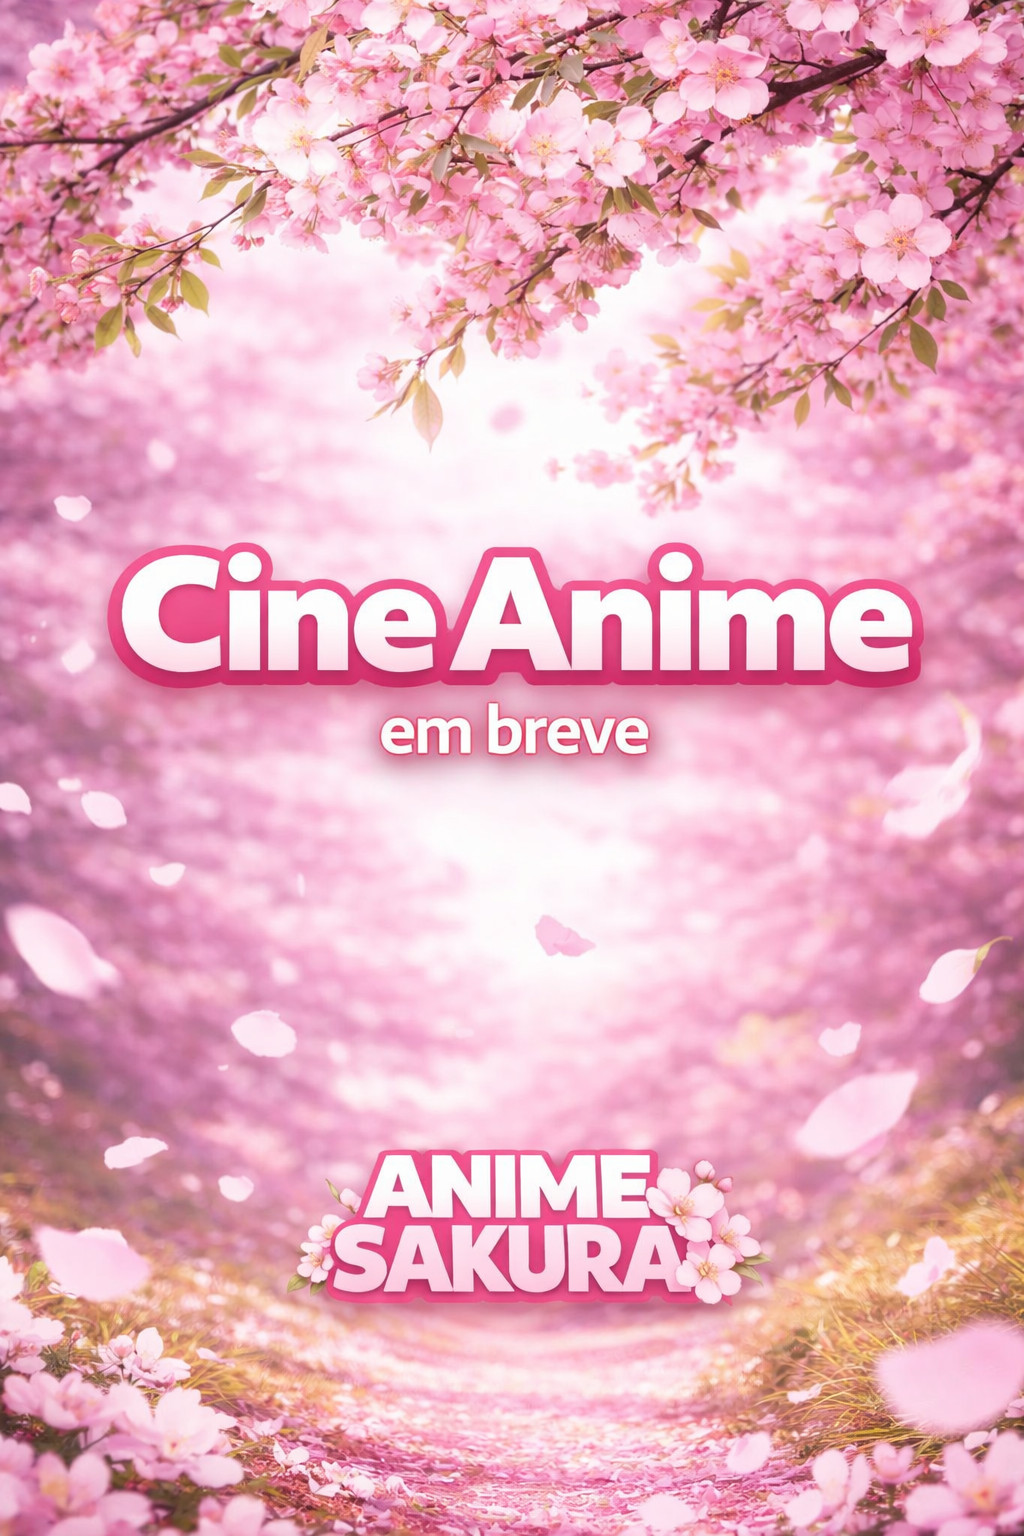
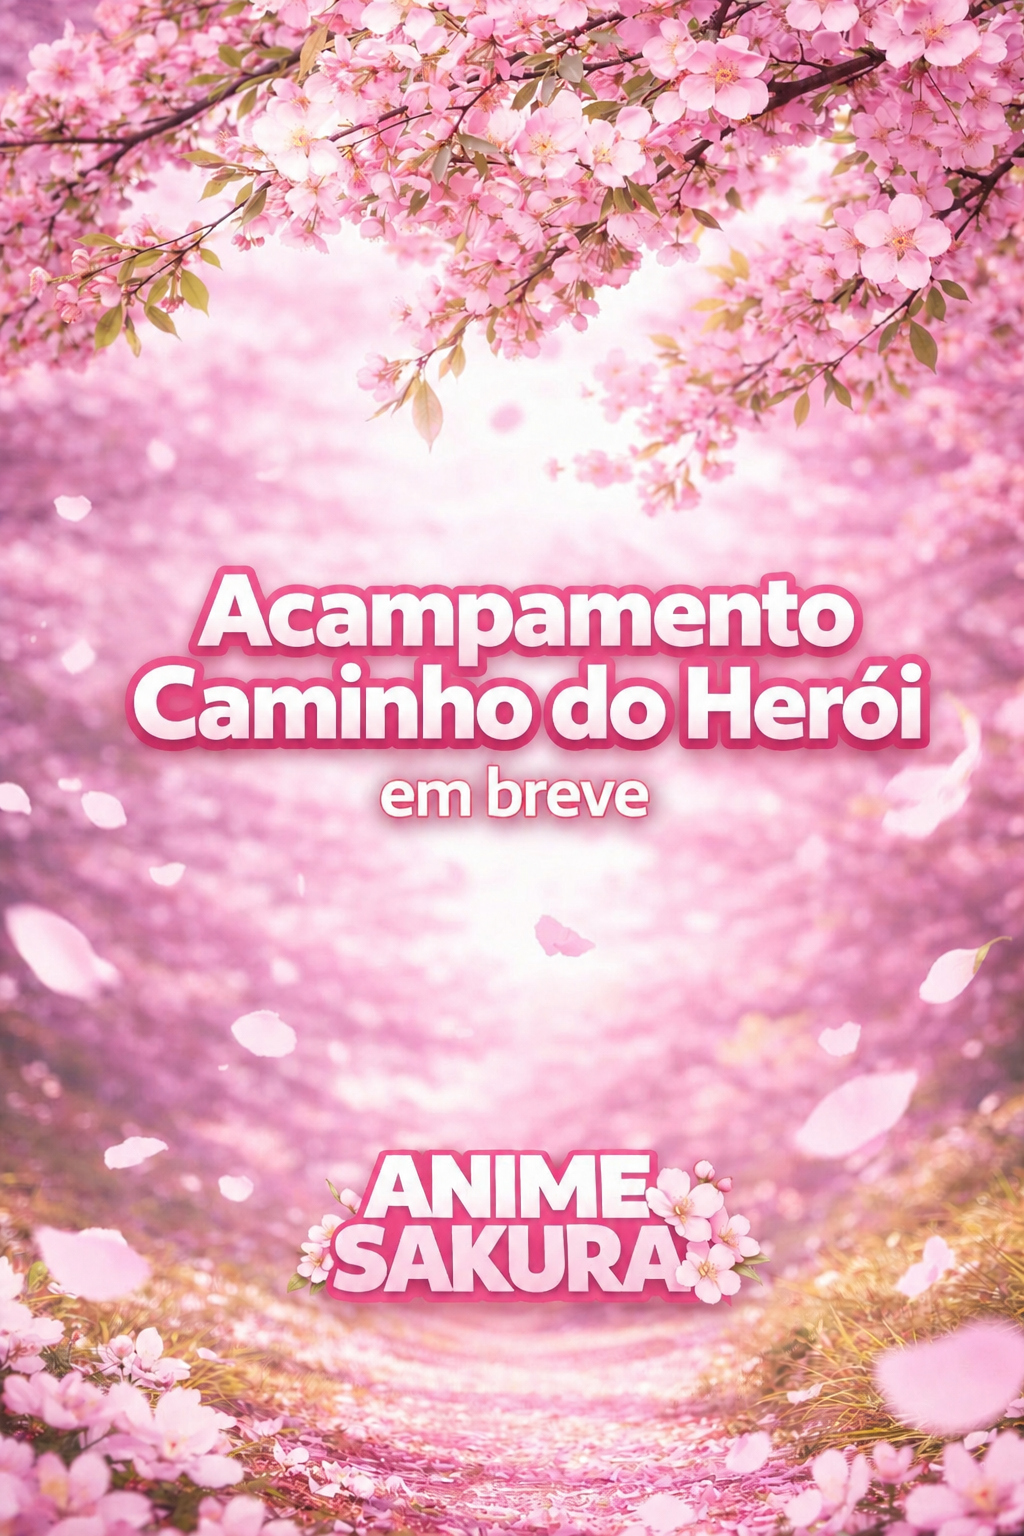
Atualização do calendário

diff --git a/index.html b/index.html
@@ -67,8 +67,8 @@
                     <div class="row">
                         <div class="col-lg-6">
                             <h1>Próximo Evento</h1>
-                            <a href="./assets/orgulho_nerd.jpeg" class="lg-item">
-                                <img src="./assets/orgulho_nerd.jpeg" class="proximo-evento" />
+                            <a href="./assets/em-breve.jpg" class="lg-item">
+                                <img src="./assets/em-breve.jpg" class="proximo-evento" />
                             </a>
                         </div>
                         <div class="col-lg-6">
@@ -108,26 +108,26 @@
                                             <td><a href="./assets/cine-anime.jpg" class="lg-item">Cine Anime</a></td>
                                             <td>15 de Abril</td>
                                         </tr>
-                                        <tr class="table-active">
+                                        <tr class="finished">
                                             <th scope="row">5</th>
                                             <td><a href="./assets/orgulho_nerd.jpeg" class="lg-item">Dia do Orgulho Nerd</a></td>
                                             <td>31 de Maio</td>
                                         </tr>
-                                        <tr>
+                                        <tr class="table-active">
                                             <th scope="row">6</th>
-                                            <td><a href="./assets/tornio-yugioh.jpeg" class="lg-item">Torneio de
-                                                    Yu-Gi-Oh!</a></td>
-                                            <td>Em breve</td>
-                                        </tr>
-                                        <tr>
-                                            <th scope="row">7</th>
                                             <td>Acampamento Caminho do Herói</td>
                                             <td>12 de Julho</td>
                                         </tr>
                                         <tr>
-                                            <th scope="row">8</th>
+                                            <th scope="row">7</th>
                                             <td>Sword Play</td>
                                             <td>19 de Julho</td>
+                                        </tr>
+                                        <tr>
+                                            <th scope="row">8</th>
+                                            <td><a href="./assets/tornio-yugioh.jpeg" class="lg-item">Torneio de
+                                                    Yu-Gi-Oh!</a></td>
+                                            <td>Agosto</td>
                                         </tr>
                                         <tr>
                                             <td colspan="3" style="text-align: center;">